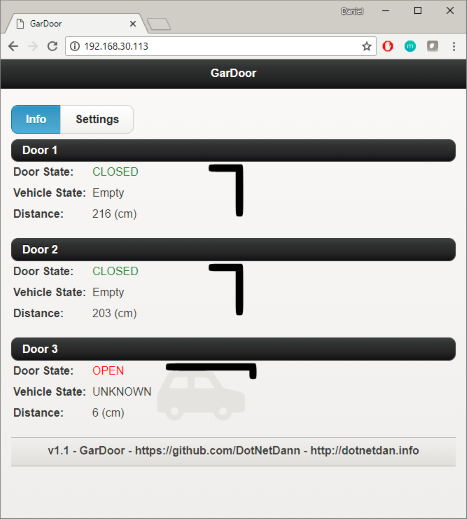
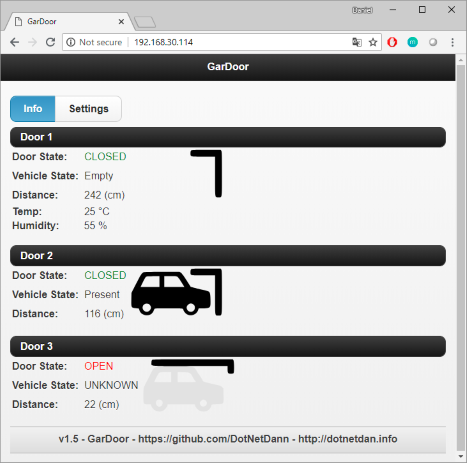
Clean up of iceman73's changes

diff --git a/GarageDoorSensor/web.h b/GarageDoorSensor/web.h
@@ -55,8 +55,6 @@ void ServeWebClients()
 
   // DOOR 1
   byte dst = getState(door1_lastDistanceValue);
-  byte tmp = dht.readTemperature();
-  byte hum = dht.readHumidity();
   inString += F("<h3 class='ui-bar ui-bar-a ui-corner-all'>Door 1</h3>");
   inString += F("<table><tr><td><b>Door&nbsp;State:<br></td><td><label id='lbl_status' ");
   if (dst == DOOR_OPENED) {
@@ -83,18 +81,23 @@ void ServeWebClients()
   inString += F("<tr><td><b>Distance:</b></td><td><label id='lbl_dist'>");
   inString += String(door1_lastDistanceValue);
   inString += F(" (cm)</label></td><td></td></tr>");
-  inString += F("<tr><td><b>Temp: </b></td><td><label id='lbl_dist'>");
+  
+  #if DHT_ENABLED == true
+  byte tmp = dht.readTemperature();
+  byte hum = dht.readHumidity();
+  inString += F("<tr><td><b>Temp: </b></td><td><label id='lbl_temp'>");
   if (DHT_TEMPERATURE_CELSIUS) {
       inString += String(tmp);
-      inString += F(" °C</label></td><td></td></tr>");
-  }
-  else {
+      inString += F(" &#176;C</label></td><td></td></tr>");
+  } else {
       inString += String(tmp* 1.8 + 32);
-      inString += F(" °F</label></td><td></td></tr>");
+      inString += F(" &#176;F</label></td><td></td></tr>");
   }
-  inString += F("<tr><td><b>Humidity: </b></td><td><label id='lbl_dist'>");
+  inString += F("<tr><td><b>Humidity: </b></td><td><label id='lbl_hum'>");
   inString += String(hum);
   inString += F(" %</label></td><td></td></tr>");
+  #endif
+  
   inString += F("</table><br />");
   
   #if DOOR2_ENABLED == true
@@ -205,7 +208,7 @@ void ServeWebClients()
 
   inString += F("<tr><td><b>Ultrasonic Read Timeout:</b></td><td><label id='lbl_rssi'>");
   inString += ULTRASONIC_TIMEOUT;
-  inString += F(" µs</label></td></tr>");
+  inString += F(" &#181;s</label></td></tr>");
 
   inString += F("<tr><td><b>Ultrasonic Distance Max Open:</b></td><td><label id='lbl_rssi'>");
   inString += ULTRASONIC_DIST_MAX_OPEN;
@@ -237,6 +240,16 @@ void ServeWebClients()
   inString += F(" disabled><label for='cb3'>");
   inString += DOOR3_ALIAS;
   inString += F("</label></td></tr>");
+
+  inString += F("<tr><td colspan='2'><input type='checkbox' id='cb4' ");
+  #if DHT_ENABLED == true
+    inString += F("checked");
+  #endif
+  inString += F(" disabled><label for='cb4'>");
+  inString += DHT_TEMPERATURE_ALIAS;
+  inString += F(" & ");
+  inString += DHT_HUMIDITY_ALIAS;
+  inString += F("</label></td></tr>"); 
   
   inString += F("</table>");
   inString += F("</div>");

diff --git a/GarageDoorSensor/auth-template.h b/GarageDoorSensor/auth-template.h
@@ -15,16 +15,6 @@
 #define MQTT_PORT 1883
 #define MQTT_AVAIL_TOPIC WIFI_HOSTNAME "/availability"
 
-// DHT Parameters
-#define DHTPIN 13 // D7 on ESP8266
-#define DHTTYPE DHT22 // or: DHT21 or DHT22
-#define MQTT_TEMPERATURE_TOPIC WIFI_HOSTNAME "/temperature"
-#define MQTT_HUMIDITY_TOPIC WIFI_HOSTNAME "/humidity"
-#define DHT_PUBLISH_INTERVAL 300
-#define DHT_TEMPERATURE_CELSIUS false
-#define DHT_TEMPERATURE_ALIAS "Garage Temperature"
-#define DHT_HUMIDITY_ALIAS "Garage Humidity"
-
 // OTA Settings for pushing updated software
 #define OTApassword "ota password" //the password you will need to enter to upload remotely via the ArduinoIDE
 #define OTAport 8266
@@ -42,23 +32,34 @@
 #define DOOR1_ALIAS "Door 1"
 #define MQTT_DOOR1_ACTION_TOPIC WIFI_HOSTNAME "/1/action"
 #define MQTT_DOOR1_STATUS_TOPIC WIFI_HOSTNAME "/1/status"
-#define DOOR1_RELAY_PIN 4 // D2 on ESP8266
+#define DOOR1_RELAY_PIN 10 // SD3 on ESP8266
 #define DOOR1_ECHO_PIN 14 // D5 on ESP8266
 
 // Door 2 Parameters
-#define DOOR2_ENABLED false
+#define DOOR2_ENABLED true
 #define DOOR2_ALIAS "Door 2"
 #define MQTT_DOOR2_ACTION_TOPIC WIFI_HOSTNAME "/2/action"
 #define MQTT_DOOR2_STATUS_TOPIC WIFI_HOSTNAME "/2/status"
-#define DOOR2_RELAY_PIN 0 // D3
+#define DOOR2_RELAY_PIN 4 // D2 on ESP8266
 #define DOOR2_ECHO_PIN 12 // D6 on ESP8266
 
 // Door 3 Parameters
-#define DOOR3_ENABLED false
+#define DOOR3_ENABLED true
 #define DOOR3_ALIAS "Door 3"
 #define MQTT_DOOR3_ACTION_TOPIC WIFI_HOSTNAME "/3/action"
 #define MQTT_DOOR3_STATUS_TOPIC WIFI_HOSTNAME "/3/status"
 #define DOOR3_RELAY_PIN 5 // D1 on ESP8266
-#define DOOR3_ECHO_PIN 10 // SD3 on ESP8266
+#define DOOR3_ECHO_PIN 13 // D7 on ESP8266
+
+// DHT Parameters
+#define DHT_ENABLED true
+#define DHT_PIN 15 // D8 on ESP8266
+#define DHT_TYPE DHT22 // or: DHT21 or DHT22
+#define MQTT_TEMPERATURE_TOPIC WIFI_HOSTNAME "/temperature"
+#define MQTT_HUMIDITY_TOPIC WIFI_HOSTNAME "/humidity"
+#define DHT_PUBLISH_INTERVAL 300
+#define DHT_TEMPERATURE_CELSIUS true
+#define DHT_TEMPERATURE_ALIAS "Garage Temperature"
+#define DHT_HUMIDITY_ALIAS "Garage Humidity"
 
 #endif

diff --git a/README.md b/README.md
@@ -1,10 +1,9 @@
 # ESP8266 MQTT GarageDoorSensor and Temperture HomeAssistant
-=====================
 This project allows for up to  three "dumb" garage door openers to be controlled (open/close) and report garage door status (open/closed/occupied) via MQTT. In addition if you can also monitor the Temperture and Humidity within your garage to over MQTT as well.
 
 The code covered in this repository utilizes [Home Assistant's MQTT Cover Component](https://www.home-assistant.io/components/cover.mqtt/) and uses an ESP8266 microcontroller. There is a sample configuration in the repository
 
-Inspiration for this comes from GarHAge and OpenGarage. I orginally forked this from https://github.com/DotNetDann/ESP-MQTT-GarageDoorSensor, and added the Temp and Humidity code for a DHT22 from GarHage, and now it morphed to change to NewPing for the ultrasonic HC-SR04 due to the inconsitant reading using the Ultrasonic library with the HC-SCR04 I aquired from china.
+Inspiration for this comes from GarHAge and OpenGarage. The Temp and Humidity code for a DHT22 from GarHage, and now it morphed to change to NewPing for the ultrasonic HC-SR04 due to the inconsitant reading using the Ultrasonic library with the HC-SCR04 I aquired from china.
 
 **NOTE:** I am currrently only using this with one garage door, to enable for 2 or 3, just enable the use to true in the auth.h file you create
 
@@ -26,18 +25,17 @@ More information on OTA uploading can be found [here](http://esp8266.github.io/A
 
 #### Parts List
 - [NodeMCU](https://www.amazon.com/HiLetgo-Version-NodeMCU-Internet-Development/dp/B010O1G1ES/)
-- [1-3 x HC-SR04 Ultrasonic Sensors]() Depending on how many Doors you will monitor
+- [1-3 x HC-SR04 Ultrasonic Sensors](https://au.element14.com/mcm/83-17989/hc-sr04-ultrasonic-sensor-for/dp/2801408?ost=HC-SR04) Depending on how many Doors you will monitor
 - [5V 4 Channel Relay Board](https://www.ebay.com./sch/i.html?_from=R40&_trksid=p2380057.m570.l1313.TR0.TRC0.H0.X5V+4+Channel+Relay+Board.TRS0&_nkw=5V+4+Channel+Relay+Board&_sacat=0) If Controling 2 or More Garage Doors this is the best choice
 - Otherwise buy a Single Relay for a singe Door
 	[5V 1 Channel Relay Board](https://www.ebay.com./sch/i.html?_from=R40&_trksid=p2380057.m570.l1313.TR0.TRC0.H0.X5V+1+Channel+Relay+Board.TRS0&_nkw=5V+1+Channel+Relay+Board&_sacat=0)
 
 #### Wiring Diagram
-![alt text](https://github.com/iceman73/ESP-MQTT-GarageDoorSensor/blob/master/Wiring%20Diagram.png?raw=true "Wiring Diagram")
+![alt text](https://github.com/DotNetDann/ESP-MQTT-GarageDoorSensor/blob/master/Wiring%20Diagram.png?raw=true "Wiring Diagram")
 
 
 #### Web page
-![alt text](https://github.com/iceman73/ESP-MQTT-GarageDoorSensor/blob/dev/Webpage-with-Temp.png?raw=true "Web Page with Temp")
-![alt text](https://github.com/iceman73/ESP-MQTT-GarageDoorSensor/blob/master/WebpageStatus.png?raw=true "Webpage Status")
+![alt text](https://github.com/DotNetDann/ESP-MQTT-GarageDoorSensor/blob/master/WebpageStatus.png?raw=true "Webpage Status")
 
 
 #### Completed Project
